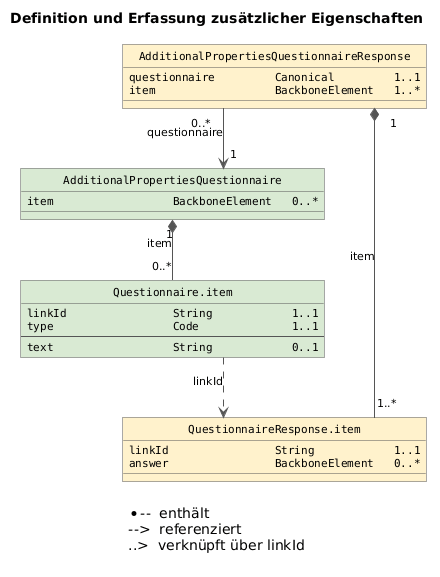
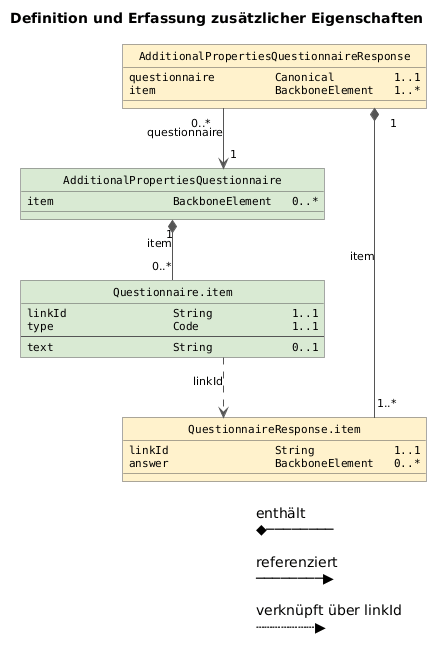
edit for reviewer commends

diff --git a/rki.emiga.common/guides/implementationguides.common/Home/ressourcen/terminologien/valuesets/Index.page.md b/rki.emiga.common/guides/implementationguides.common/Home/ressourcen/terminologien/valuesets/Index.page.md
@@ -21,28 +21,3 @@ select
     ValueSet: title & ' (' & id & ')',
     Beschreibung: description
 </fql>
-
-<!--
-| **ValueSet**                               | **Beschreibung**                                                                                       |
-|--------------------------------------------|--------------------------------------------------------------------------------------------------------|
-| Annotationskategorien (AnnotationCategoryVS) | Werteliste mit Konzepten, die die Art der Annotation bestimmen. |
-| Anrede (SalutationVS) | Werteliste mit Konzepten, die die Art der Anrede bestimmen. |
-| Anzeigestext Art (ConceptDesignationUse) | Bestimmt die Darstellung eines Anzeigetext.|
-| Bearbeitungsstatus (ProcessingStatusVS) | Dieses ValueSet umfasst die Codes aus dem CodeSystem „ProcessingStatus“, die zur Abbildung des Bearbeitungsstatus eines Vorgangs oder einer betroffenen Person verwendet werden. |
-| Bearbeitungsstatus Annotation (ProcessingStatusAnnotation) | Werteliste mit möglichen Bearbeitungsstatus für Annotationen. |
-| Bearbeitungsstatus betroffene Person (ProcessingStatusAffectedPerson) | Werteliste mit möglichen Bearbeitungsstatus einer betroffenen Person. |
-| Beziehungen (RelatedPersonRelationshipTypeVS) | Werteliste mit Konzepten, die die Art der Beziehungen bestimmen. |
-| Häufige Sprachen (CommonLanguages) | Die Werteliste umfasst häufige Codes aus BCP-47. |
-| Ja, Nein, Nicht ermittelbar, Nicht erhoben Antworten (YesNoNullFlavor) | Werteliste mit Ja, Nein, nicht ermittelbar und nicht erhoben. |
-| Ländercodes (CountryCodes) | Werteliste mit Ländercodes gemäß Anlage 8 der DEÜV. |
-| Nicht vorhanden (NullFlavor) | Werteliste mit nicht ermittelbar und nicht erhoben Antworten. |
-| Personenbezug (PersonalInformation) | Werteliste mit Konzepten, die den Personenbezug der Daten in relevanten Ressourcen kennzeichnen. |
-| Personen-Ressourcensichtbarkeit (PersonResourceVisibilityType) | Werteliste mit Konzepten, die die gewünschte Sichtbarkeit von Ressourcen beschreiben. |
-| Regionalschlüssel (RegionKeys) | Werteliste mit Regionalschlüsseln (Gemeinden Deutschlands durch den Amtlichen Regionalschlüssel (ARS)). |
-| Ressourcen Annotation Sichtbarkeit (AnnotationResourceVisibilityType) | Werteliste mit Konzepten, die die gewünschte Sichtbarkeit von Ressourcen beschreiben. |
-| Ressourcen Relevanz (Relevance) | Werteliste mit Konzepten, die die Relevanz der Ressourcen für verschiedene Use Cases kennzeichnen. |
-| Ressourcen Sichtbarkeit (ResourceVisibilityType) |  Werteliste mit Konzepten, die die gewünschte Sichtbarkeit von Ressourcen beschreiben. |
-| Ressourcen Verantwortlichkeit (ResourceResponsibility) | Werteliste mit Konzepten, die die Verantwortlichkeit für Ressourcen auszeichnen. |
-| Verbindungs-Qulifikation (FacilityAssociationTypeVS) | Werteliste mit Konzepten, die die Art der Verbindungen bestimmen. |
-
--->

diff --git a/rki.emiga.common/guides/implementationguides.common/Home/ressourcen/terminologien/codesystems/guide-dublettenpruefungsgruende.guide.md b/rki.emiga.common/guides/implementationguides.common/Home/ressourcen/terminologien/codesystems/guide-dublettenpruefungsgruende.guide.md
@@ -1,0 +1,80 @@
+---
+topic: Dublettenprüfungsgründe
+canonical: https://emiga.rki.de/fhir/common/CodeSystem/DuplicateMatchTriggerReasons
+---
+
+# {{page-title}}
+## Beschreibung
+<fql output= "inline" headers="false">
+from 
+    CodeSystem
+where
+    url = %canonical
+select
+    description
+</fql>
+<br>&nbsp;<br>
+
+### Metadaten
+<fql output="transpose" headers="true">
+from
+	CodeSystem
+where
+	url = %canonical
+select
+	CanonicalURL: url, Status: status, Version: version, Herausgeber: publisher
+</fql>
+<br>&nbsp;<br>
+
+### Überblick
+<div id="rendered-codesystem">
+    {{render:https://emiga.rki.de/fhir/common/CodeSystem/DuplicateMatchTriggerReasons}}
+</div>
+
+<style>
+  /* Entferne äußere Umrandung */
+  #rendered-codesystem {
+      border: none;
+      padding: 0;
+      margin: 0;
+  }
+
+  /* Tabelle formatieren */
+  #rendered-codesystem table {
+      border-collapse: collapse;
+      width: auto;  /* Passt die Breite an den Inhalt an */
+      border: 1px solid #d3d3d3;  /* Dünne, graue Umrandung der gesamten Tabelle */
+  }
+
+  /* Zellen formatieren */
+  #rendered-codesystem th, 
+  #rendered-codesystem td {
+      padding: 8px 12px;  /* Weniger Innenabstand für kompakte Darstellung */
+      text-align: left;
+      border: 1px solid #d3d3d3;  /* Dünne Linien zwischen den Zellen */
+      font-family: Arial, sans-serif;
+      font-size: 14px;
+  }
+
+  /* Kopfzeile formatieren */
+  #rendered-codesystem thead th {
+      background-color: #f7f7f7;  /* Hellgrauer Hintergrund für die Kopfzeile */
+      color: black;
+      border: 1px solid #d3d3d3;
+      font-weight: bold;
+  }
+    /* vierte Spalte ausblenden */
+  #rendered-codesystem td:nth-child(4), 
+  #rendered-codesystem th:nth-child(4) {
+      display: none;
+</style>
+<br>&nbsp;<br>
+
+### Inhalt
+<tabs>
+<tab= title="Darstellung">{{tree, buttons}} </tab>
+<tab title="XML">{{xml}}</tab>
+<tab title="JSON">{{json}}</tab>
+<tab title="Link">{{link}}</tab>
+</tabs>
+<br>&nbsp;<br>

diff --git a/rki.emiga.common/guides/implementationguides.common/Home/ressourcen/terminologien/codesystems/guide-dublettenpruefungs-kriterien.guide.md b/rki.emiga.common/guides/implementationguides.common/Home/ressourcen/terminologien/codesystems/guide-dublettenpruefungs-kriterien.guide.md
@@ -1,0 +1,80 @@
+---
+topic: Dublettenprüfungs-Kriterien
+canonical: https://emiga.rki.de/fhir/common/CodeSystem/DuplicateMatchCriteria
+---
+
+# {{page-title}}
+## Beschreibung
+<fql output= "inline" headers="false">
+from 
+    CodeSystem
+where
+    url = %canonical
+select
+    description
+</fql>
+<br>&nbsp;<br>
+
+### Metadaten
+<fql output="transpose" headers="true">
+from
+	CodeSystem
+where
+	url = %canonical
+select
+	CanonicalURL: url, Status: status, Version: version, Herausgeber: publisher
+</fql>
+<br>&nbsp;<br>
+
+### Überblick
+<div id="rendered-codesystem">
+    {{render:https://emiga.rki.de/fhir/common/CodeSystem/DuplicateMatchCriteria}}
+</div>
+
+<style>
+  /* Entferne äußere Umrandung */
+  #rendered-codesystem {
+      border: none;
+      padding: 0;
+      margin: 0;
+  }
+
+  /* Tabelle formatieren */
+  #rendered-codesystem table {
+      border-collapse: collapse;
+      width: auto;  /* Passt die Breite an den Inhalt an */
+      border: 1px solid #d3d3d3;  /* Dünne, graue Umrandung der gesamten Tabelle */
+  }
+
+  /* Zellen formatieren */
+  #rendered-codesystem th, 
+  #rendered-codesystem td {
+      padding: 8px 12px;  /* Weniger Innenabstand für kompakte Darstellung */
+      text-align: left;
+      border: 1px solid #d3d3d3;  /* Dünne Linien zwischen den Zellen */
+      font-family: Arial, sans-serif;
+      font-size: 14px;
+  }
+
+  /* Kopfzeile formatieren */
+  #rendered-codesystem thead th {
+      background-color: #f7f7f7;  /* Hellgrauer Hintergrund für die Kopfzeile */
+      color: black;
+      border: 1px solid #d3d3d3;
+      font-weight: bold;
+  }
+    /* vierte Spalte ausblenden */
+  #rendered-codesystem td:nth-child(4), 
+  #rendered-codesystem th:nth-child(4) {
+      display: none;
+</style>
+<br>&nbsp;<br>
+
+### Inhalt
+<tabs>
+<tab= title="Darstellung">{{tree, buttons}} </tab>
+<tab title="XML">{{xml}}</tab>
+<tab title="JSON">{{json}}</tab>
+<tab title="Link">{{link}}</tab>
+</tabs>
+<br>&nbsp;<br>

diff --git a/rki.emiga.common/guides/implementationguides.common/Home/ressourcen/terminologien/codesystems/guide-einrichtungstyp.guide.md b/rki.emiga.common/guides/implementationguides.common/Home/ressourcen/terminologien/codesystems/guide-einrichtungstyp.guide.md
@@ -1,0 +1,80 @@
+---
+topic: Einrichtungstyp
+canonical: https://emiga.rki.de/fhir/common/CodeSystem/OrganizationType
+---
+
+# {{page-title}}
+## Beschreibung
+<fql output= "inline" headers="false">
+from 
+    CodeSystem
+where
+    url = %canonical
+select
+    description
+</fql>
+<br>&nbsp;<br>
+
+### Metadaten
+<fql output="transpose" headers="true">
+from
+	CodeSystem
+where
+	url = %canonical
+select
+	CanonicalURL: url, Status: status, Version: version, Herausgeber: publisher
+</fql>
+<br>&nbsp;<br>
+
+### Überblick
+<div id="rendered-codesystem">
+    {{render:https://emiga.rki.de/fhir/common/CodeSystem/OrganizationType}}
+</div>
+
+<style>
+  /* Entferne äußere Umrandung */
+  #rendered-codesystem {
+      border: none;
+      padding: 0;
+      margin: 0;
+  }
+
+  /* Tabelle formatieren */
+  #rendered-codesystem table {
+      border-collapse: collapse;
+      width: auto;  /* Passt die Breite an den Inhalt an */
+      border: 1px solid #d3d3d3;  /* Dünne, graue Umrandung der gesamten Tabelle */
+  }
+
+  /* Zellen formatieren */
+  #rendered-codesystem th, 
+  #rendered-codesystem td {
+      padding: 8px 12px;  /* Weniger Innenabstand für kompakte Darstellung */
+      text-align: left;
+      border: 1px solid #d3d3d3;  /* Dünne Linien zwischen den Zellen */
+      font-family: Arial, sans-serif;
+      font-size: 14px;
+  }
+
+  /* Kopfzeile formatieren */
+  #rendered-codesystem thead th {
+      background-color: #f7f7f7;  /* Hellgrauer Hintergrund für die Kopfzeile */
+      color: black;
+      border: 1px solid #d3d3d3;
+      font-weight: bold;
+  }
+    /* vierte Spalte ausblenden */
+  #rendered-codesystem td:nth-child(4), 
+  #rendered-codesystem th:nth-child(4) {
+      display: none;
+</style>
+<br>&nbsp;<br>
+
+### Inhalt
+<tabs>
+<tab= title="Darstellung">{{tree, buttons}} </tab>
+<tab title="XML">{{xml}}</tab>
+<tab title="JSON">{{json}}</tab>
+<tab title="Link">{{link}}</tab>
+</tabs>
+<br>&nbsp;<br>

diff --git a/rki.emiga.common/guides/implementationguides.common/Home/anwendungsfaelle/guide-annotationen.guide.md b/rki.emiga.common/guides/implementationguides.common/Home/anwendungsfaelle/guide-annotationen.guide.md
@@ -6,7 +6,7 @@ Für die Erstellung, Änderung und Übertragung einer Annotation werden die zuge
 Das Bundle dient als technischer Container für die Annotation und die zugehörigen Begleitressourcen. 
 
 Die zentrale fachliche Ressource ist `AnnotationCommunication`, welche die eigentliche Annotation repräsentiert. Sie muss obligatorisch als erster Eintrag im Bundle enthalten sein. 
-Weitere Einträge im Bundle stellen die für die Verarbeitung und Interpretation der Annotation benötigten Begleitressourcen bereit. Dazu gehören uter anderen:
+Weitere Einträge im Bundle stellen die für die Verarbeitung und Interpretation der Annotation benötigten Begleitressourcen bereit. Dazu gehören unter anderen:
 
 * die erstellende Person (`EmigaUserPractitioner`),
 * optionale Anhänge (`AttachmentDocumentReference`) und

diff --git a/rki.emiga.common/guides/implementationguides.common/Home/ressourcen/structuredefinitions/Index.page.md b/rki.emiga.common/guides/implementationguides.common/Home/ressourcen/structuredefinitions/Index.page.md
@@ -24,6 +24,6 @@ select
 
 
 - `visibility` zur Angabe der Sichtbarkeit der Ressource
-responsibility zur Angabe der verantwortlichen ÖGD-Stelle
+- `responsibility` zur Angabe der verantwortlichen ÖGD-Stelle
 
 - Die Sichtbarkeit wird über das CodeSystem `ResourceVisibilityType` kodiert und an ein entsprechendes ValueSet gebunden. Die Verantwortlichkeit wird über das CodeSystem `ResourceResponsibility` angegeben.
